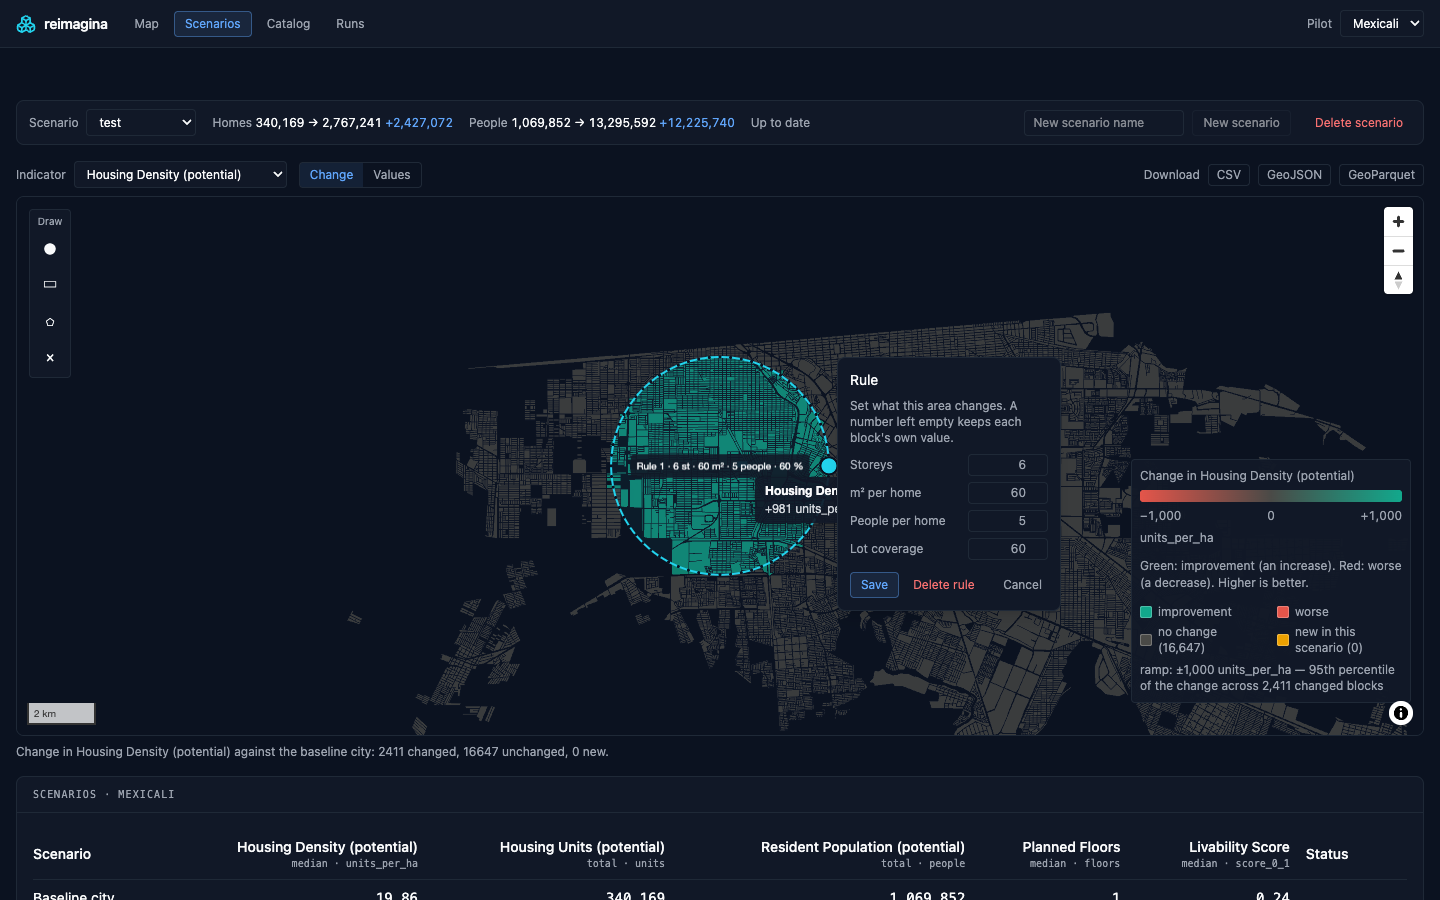
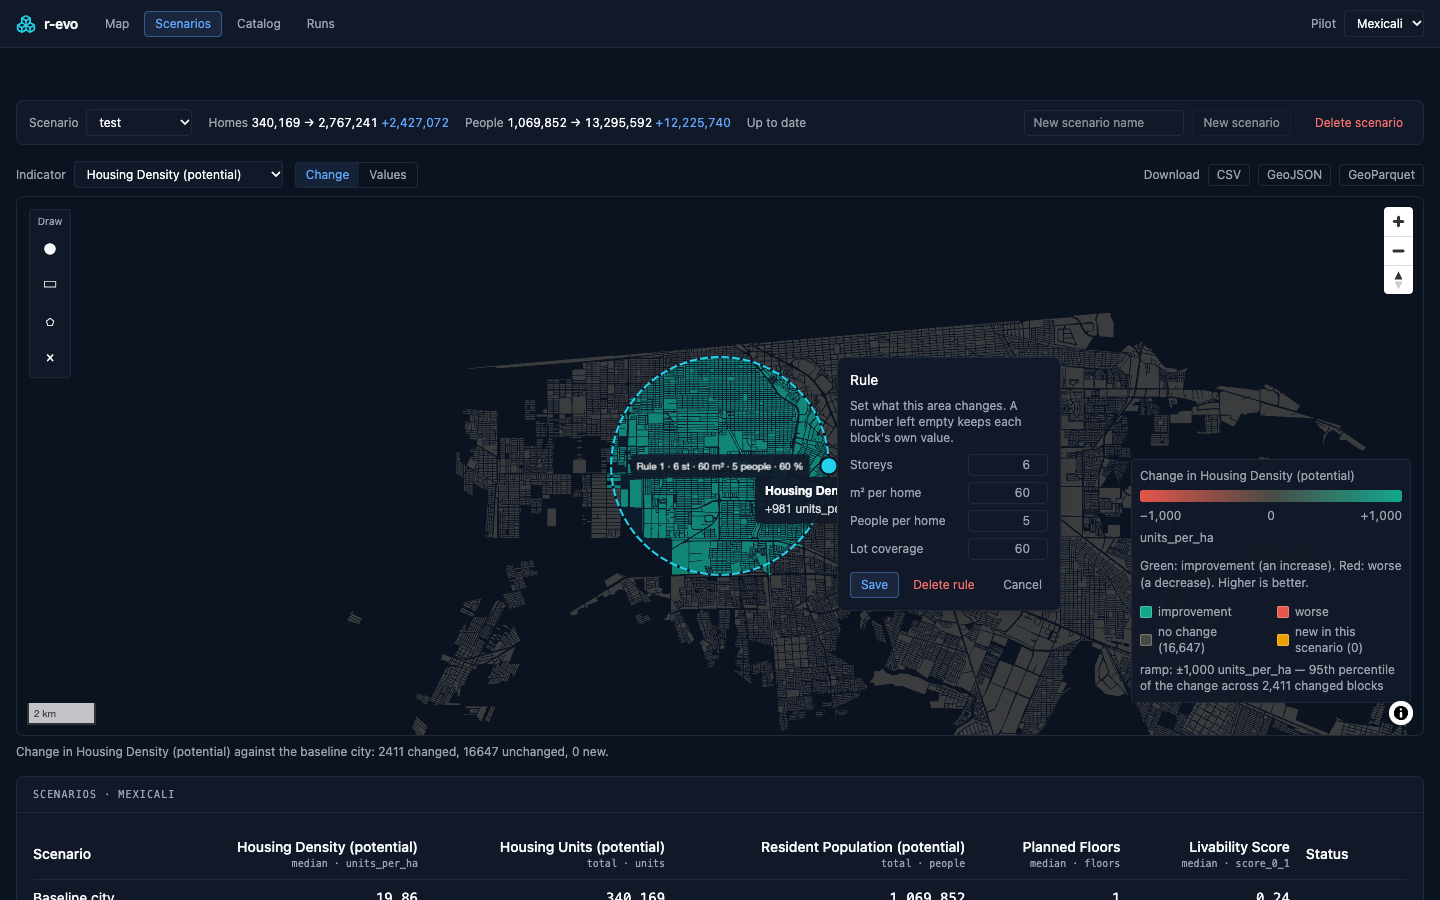
feat(web): the prototype is named r-evo in the top bar, page titles and API title; screenshots retaken

diff --git a/apps/web/src/hover-highlight.ts b/apps/web/src/hover-highlight.ts
@@ -11,7 +11,7 @@
  * Standard MapLibre idiom, encapsulated:
  *   1. Source must be added with ``promoteId`` so ``feature.id`` is
  *      populated from a stable MVT property (we use ``feature_id``
- *      emitted by every reimagina tile function).
+ *      emitted by every tile function).
  *   2. On mousemove/mouseleave the feature-state ``hover`` flag flips
  *      for the feature under the cursor.
  *   3. Paint expressions on the fill / line read that flag and switch

diff --git a/apps/web/src/layers.ts b/apps/web/src/layers.ts
@@ -263,7 +263,7 @@ export function installInputLayers(
     const visibility = visible(layer) ? "visible" : "none";
     // promoteId surfaces the MVT 'feature_id' property as feature.id so
     // setFeatureState({...id}) can find the right feature for hover
-    // highlighting. Every reimagina tile function emits feature_id.
+    // highlighting. Every tile function emits feature_id.
     map.addSource(layer.sourceName, {
       type: "vector",
       tiles: [tileUrl],

diff --git a/apps/web/src/lib/TopBar.svelte b/apps/web/src/lib/TopBar.svelte
@@ -38,7 +38,7 @@
 >
   <a href="/index.html" class="flex items-center gap-2">
     <Boxes class="size-5 text-interactive" aria-hidden="true" />
-    <span class="text-sm font-semibold tracking-tight">reimagina</span>
+    <span class="text-sm font-semibold tracking-tight">r-evo</span>
   </a>
 
   <nav aria-label="Sections" class="flex items-center gap-1">

diff --git a/apps/web/catalog.html b/apps/web/catalog.html
@@ -3,7 +3,7 @@
   <head>
     <meta charset="UTF-8" />
     <meta name="viewport" content="width=device-width, initial-scale=1.0" />
-    <title>reimagina · indicator catalog</title>
+    <title>r-evo · indicator catalog</title>
   </head>
   <body>
     <div id="catalog-root"></div>

diff --git a/apps/web/index.html b/apps/web/index.html
@@ -3,7 +3,7 @@
   <head>
     <meta charset="UTF-8" />
     <meta name="viewport" content="width=device-width, initial-scale=1.0" />
-    <title>reimagina · read-side</title>
+    <title>r-evo · map</title>
     <link rel="stylesheet" href="/src/style.css" />
   </head>
   <body>

diff --git a/apps/web/scenarios.html b/apps/web/scenarios.html
@@ -3,7 +3,7 @@
   <head>
     <meta charset="UTF-8" />
     <meta name="viewport" content="width=device-width, initial-scale=1.0" />
-    <title>reimagina · scenarios</title>
+    <title>r-evo · scenarios</title>
   </head>
   <body>
     <div id="scenarios-root"></div>

diff --git a/apps/web/ops.html b/apps/web/ops.html
@@ -3,7 +3,7 @@
   <head>
     <meta charset="UTF-8" />
     <meta name="viewport" content="width=device-width, initial-scale=1.0" />
-    <title>reimagina · runs</title>
+    <title>r-evo · runs</title>
   </head>
   <body>
     <div id="ops-root"></div>

diff --git a/apps/web/src/main.ts b/apps/web/src/main.ts
@@ -1,5 +1,5 @@
 /**
- * Entry point for the reimagina read-side web app.
+ * Entry point for the r-evo map page.
  *
  * Boots MapLibre with a minimal offline style (no basemap — the
  * prototype avoids external tile dependencies and licensing drift),

diff --git a/tests/unit/test_app_scaffolds.py b/tests/unit/test_app_scaffolds.py
@@ -8,7 +8,7 @@ from apps.worker.app import create_worker
 def test_api_scaffold_boots():
     """create_app returns a FastAPI instance with the read-side routers mounted."""
     app = create_app(initialise_pool=False)
-    assert app.title == "Urban indicators and scenarios API"
+    assert app.title == "r-evo API"
     # Read paths from the OpenAPI schema, not app.routes: FastAPI >=0.135
     # stops flattening included routers into app.routes (they become a
     # single _IncludedRouter with path=None), so the shallow walk misses

diff --git a/apps/api/app.py b/apps/api/app.py
@@ -105,7 +105,7 @@ def create_app(
                 deps.shutdown_pool()
 
     app = FastAPI(
-        title="Urban indicators and scenarios API",
+        title="r-evo API",
         version="1.0.0",
         description=(
             "Read-side for the reimagina urban-planning platform. "

diff --git a/README.md b/README.md
@@ -1,10 +1,10 @@
-# reimagina-evo
+# r-evo
 
 [![CI](https://github.com/rschifan/reimagina-evo/actions/workflows/ci.yml/badge.svg)](https://github.com/rschifan/reimagina-evo/actions/workflows/ci.yml)
 [![License: MIT](https://img.shields.io/badge/License-MIT-yellow.svg)](LICENSE)
 [![Python 3.12+](https://img.shields.io/badge/python-3.12+-blue.svg)](https://www.python.org/downloads/)
 
-Architectural prototype of a platform that computes urban indicators and explores planning scenarios. A feature/observation/indicator/scenario data model on PostGIS, served as live vector tiles (from the API itself, or Martin behind the same URL contract) and Cloud-Optimized GeoTIFFs (titiler) to a MapLibre-GL web application.
+r-evo is an architectural prototype of a platform that computes urban indicators and explores planning scenarios. A feature/observation/indicator/scenario data model on PostGIS, served as live vector tiles (from the API itself, or Martin behind the same URL contract) and Cloud-Optimized GeoTIFFs (titiler) to a MapLibre-GL web application.
 
 > **Release 1.0.0.** The delivery documents — architecture, database and API
 > reference, technical documentation — are in

diff --git a/docs/delivery/01_architecture_map.md b/docs/delivery/01_architecture_map.md
@@ -24,7 +24,7 @@ date: "20 November 2026"
 
 ## 1. Purpose and scope
 
-This repository is an architectural prototype of a platform that computes urban indicators and explores planning scenarios. It ingests geospatial data about a territory into one canonical model, computes urban indicators and serves them to a web map. It evaluates **scenarios**: hypothetical attribute edits whose effect on the indicators is compared against the baseline. The delivered configuration covers two pilot territories, Tlalpan (Mexico City) and Mexicali.
+r-evo is an architectural prototype of a platform that computes urban indicators and explores planning scenarios. It ingests geospatial data about a territory into one canonical model, computes urban indicators and serves them to a web map. It evaluates **scenarios**: hypothetical attribute edits whose effect on the indicators is compared against the baseline. The delivered configuration covers two pilot territories, Tlalpan (Mexico City) and Mexicali.
 
 | # | Quality goal, in priority order | Meaning |
 |---|---|---|
